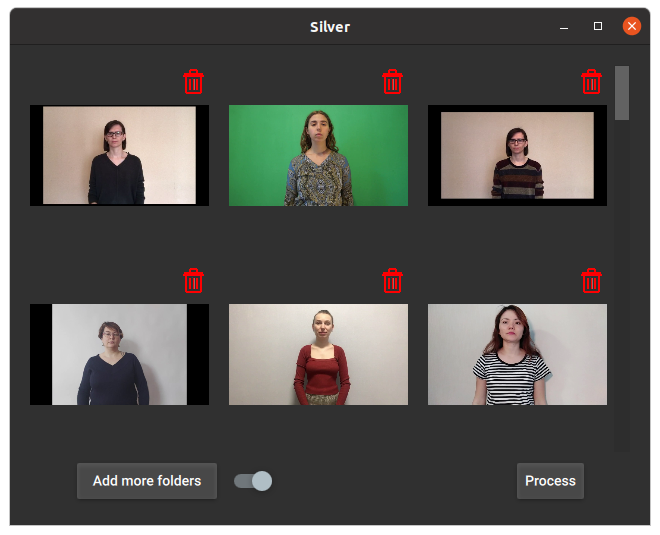
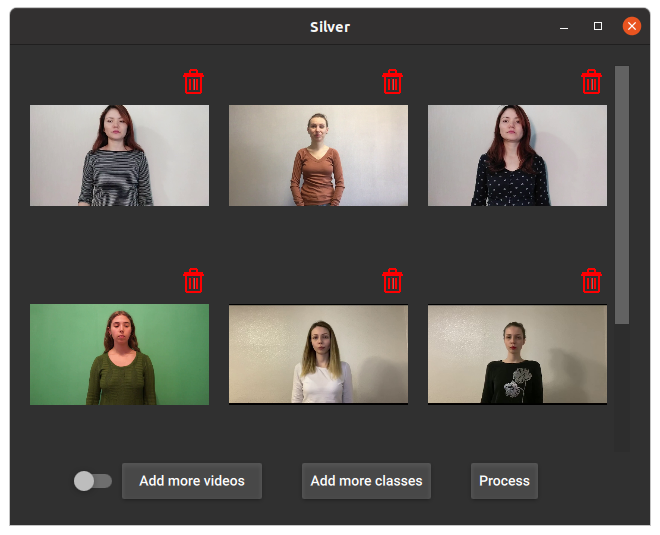
U

diff --git a/README.md b/README.md
@@ -25,11 +25,19 @@ When you press on the settings icon, the screen with global settings will appear
 
 ![Settings screen](docs/settings.png)
 
-After you chose videos, the main screen will be opened. If you have installed multimedia library all videos will be interactive, otherwise there are gonna be just static images. You can click on trash icon to remove particular video. And you cann add more videos using button in the bottom.
+After you chose videos, the main screen will be opened. If you have installed multimedia library all videos will be interactive, otherwise there are gonna be just static images. You can click on trash icon to remove particular video. And you can add more videos using button in the bottom.
 
 ![Main screen](docs/main.png)
 
-Then, when you press process button the processing menu will appear
+If you press the "Add label" button, the label addition menu will appear. You can choose any name of the label you want. IMPORTANT: firstly choose the name, and only then press the button. And, in folder dialog which will appear you chould choose the folder, in which all the video files are lying.
+
+![Label menu](docs/modif1.png)
+
+After that, the progress bar will appear, and after finish of the processing the number on the top of the popup will increase by one.
+
+![Label menu](docs/modif2.png)
+
+Then, in the main menu, when you press process button the processing menu will appear
 
 ![Processing menu](docs/processing.png)
 
@@ -37,6 +45,6 @@ There you can find compromise between accuracy/performance and choose the file, 
 
 ![Processing menu with progress bar](docs/processing-in-progress.png)
 
-And, after finishing of the processing, the labels will appear on thumbnails and chosen CSV file will be written
+And, after finishing of the processing, the labels will appear on thumbnails and chosen CSV file will be written. The xxx is an artificially added class with index 51. IMPORTANT: if you want to get the best accuracy, do not use label addition, as it could decrease the overall accuracy. We are working on the fast and accurate label addition.
 
-![Main page with labels](docs/processed.png)
+![Main page with labels](docs/done.png)
